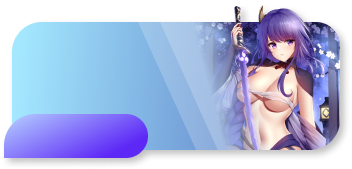
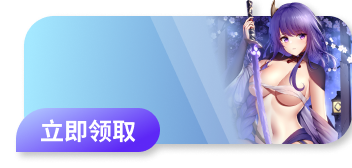
问提修改

diff --git a/lib/components/wode.dart b/lib/components/wode.dart
@@ -197,23 +197,23 @@ class _WodeState extends State<Wode> {
                     ],
                   ),
                 ),
-                Positioned(
-                  bottom: ScreenUtil().setWidth(15),
-                  left: ScreenUtil().setWidth(20),
-                  child: Text(
-                    "立即开通",
-                    style: TextStyle(
-                        fontSize: ScreenUtil().setSp(15),
-                        color: Colors.white,
-                        fontWeight: FontWeight.bold),
-                  ),
-                )
+                // Positioned(
+                //   bottom: ScreenUtil().setWidth(15),
+                //   left: ScreenUtil().setWidth(20),
+                //   child: Text(
+                //     "立即开通",
+                //     style: TextStyle(
+                //         fontSize: ScreenUtil().setSp(15),
+                //         color: Colors.white,
+                //         fontWeight: FontWeight.bold),
+                //   ),
+                // )
               ],
             ),
           ),
-          SizedBox(
-            width: ScreenUtil().setWidth(2),
-          ),
+          // SizedBox(
+          //   width: ScreenUtil().setWidth(2),
+          // ),
           Expanded(
             flex: 1,
             child: Column(
@@ -235,7 +235,7 @@ class _WodeState extends State<Wode> {
                         fit: BoxFit.fill,
                       ),
                       Positioned(
-                        left: ScreenUtil().setWidth(14),
+                        left: ScreenUtil().setWidth(20),
                         top: ScreenUtil().setWidth(15),
                         child: Column(
                           crossAxisAlignment: CrossAxisAlignment.start,
@@ -257,17 +257,17 @@ class _WodeState extends State<Wode> {
                           ],
                         ),
                       ),
-                      Positioned(
-                        bottom: ScreenUtil().setWidth(6),
-                        left: ScreenUtil().setWidth(12),
-                        child: Text(
-                          "立即充值",
-                          style: TextStyle(
-                              fontSize: ScreenUtil().setSp(12),
-                              color: Colors.white,
-                              fontWeight: FontWeight.bold),
-                        ),
-                      )
+                      // Positioned(
+                      //   bottom: ScreenUtil().setWidth(6),
+                      //   left: ScreenUtil().setWidth(12),
+                      //   child: Text(
+                      //     "立即充值",
+                      //     style: TextStyle(
+                      //         fontSize: ScreenUtil().setSp(12),
+                      //         color: Colors.white,
+                      //         fontWeight: FontWeight.bold),
+                      //   ),
+                      // )
                     ],
                   ),
                 ),
@@ -285,7 +285,7 @@ class _WodeState extends State<Wode> {
                         fit: BoxFit.fill,
                       ),
                       Positioned(
-                        left: ScreenUtil().setWidth(14),
+                        left: ScreenUtil().setWidth(20),
                         top: ScreenUtil().setWidth(15),
                         child: Column(
                           crossAxisAlignment: CrossAxisAlignment.start,
@@ -307,17 +307,17 @@ class _WodeState extends State<Wode> {
                           ],
                         ),
                       ),
-                      Positioned(
-                        bottom: ScreenUtil().setWidth(6),
-                        left: ScreenUtil().setWidth(12),
-                        child: Text(
-                          "立即领取",
-                          style: TextStyle(
-                              fontSize: ScreenUtil().setSp(12),
-                              color: Colors.white,
-                              fontWeight: FontWeight.bold),
-                        ),
-                      )
+                      // Positioned(
+                      //   bottom: ScreenUtil().setWidth(6),
+                      //   left: ScreenUtil().setWidth(12),
+                      //   child: Text(
+                      //     "立即领取",
+                      //     style: TextStyle(
+                      //         fontSize: ScreenUtil().setSp(12),
+                      //         color: Colors.white,
+                      //         fontWeight: FontWeight.bold),
+                      //   ),
+                      // )
                     ],
                   ),
                 ),

diff --git a/lib/pages/mine/vip_page.dart b/lib/pages/mine/vip_page.dart
@@ -570,9 +570,11 @@ class _MyVipState extends State<MyVip> {
   initpage() {
     if (!isInitPage) {
       isInitPage = true;
+      CommonUtils.debugPrint(123123);
       getUserProductList(page: page, limit: limit).then((res) {
         if (res['status'] != 0) {
           List _data = res['data'] == null ? [] : res['data'];
+          CommonUtils.debugPrint("****************11${_data}");
           if (page == 1) {
             vipList = _data;
           } else {
@@ -597,18 +599,18 @@ class _MyVipState extends State<MyVip> {
     }
   }
 
-  Color _vipColors(String pname, int showMore) {
-    switch (pname) {
-      case "年卡":
-        return Color(0xffffe0a3);
-        break;
-      case "全能年卡":
-        return Color(0xffffe0a3);
-        break;
-      default:
-        return showMore == 1 ? Color(0XFF23140d) : Colors.white;
-    }
-  }
+  // Color _vipColors(String pname, int showMore) {
+  //   switch (pname) {
+  //     case "年卡":
+  //       return Color(0xffffe0a3);
+  //       break;
+  //     case "全能年卡":
+  //       return Color(0xffffe0a3);
+  //       break;
+  //     default:
+  //       return showMore == 1 ? Color(0XFF23140d) : Colors.white;
+  //   }
+  // }
 
   @override
   Widget build(BuildContext context) {
@@ -691,7 +693,7 @@ class _MyVipState extends State<MyVip> {
                                                       noVisibilityDetector:
                                                           true,
                                                       url: vipList[index]
-                                                          ['second_img_url'],
+                                                          ['second_img'],
                                                       fit: BoxFit.fill,
                                                     )),
                                                 Expanded(
@@ -721,11 +723,14 @@ class _MyVipState extends State<MyVip> {
                                                                   isActivity:
                                                                       false)),
                                                   style: TextStyle(
-                                                      color: _vipColors(
-                                                          vipList[index]
-                                                              ['pname'],
-                                                          vipList[index]
-                                                              ['show_more']),
+                                                      color: Colors.white
+                                                      //  _vipColors(
+                                                      //     vipList[index]
+                                                      //         ['pname'],
+                                                      //     vipList[index]
+                                                      //         ['show_more'])
+
+                                                      ,
                                                       fontSize: ScreenUtil()
                                                           .setSp(12)),
                                                 )
@@ -737,10 +742,7 @@ class _MyVipState extends State<MyVip> {
                                             Text(
                                               vipList[index]['description'],
                                               style: TextStyle(
-                                                  color: _vipColors(
-                                                      vipList[index]['pname'],
-                                                      vipList[index]
-                                                          ['show_more']),
+                                                  color: Colors.white,
                                                   fontSize:
                                                       ScreenUtil().setSp(13),
                                                   height: 1.2),
